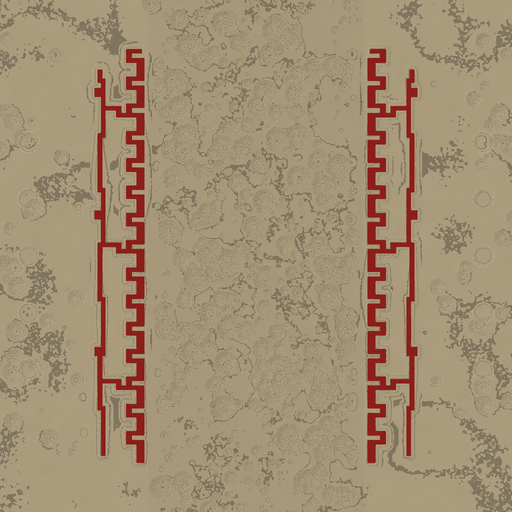
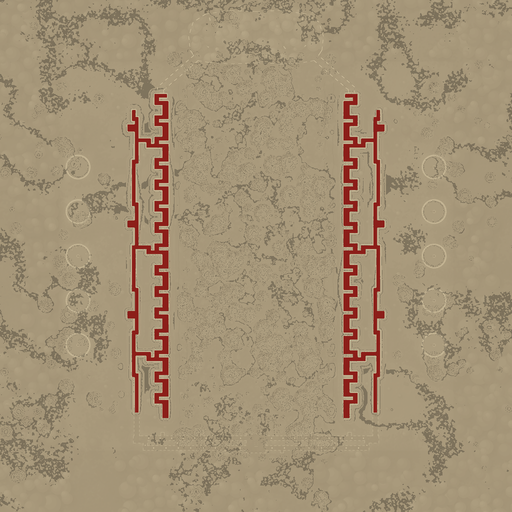
Spinning propellers, mortar map incl. the wood, vmap patcher, unpack bat applied-list fix
Claude-Session: https://claude.ai/code/session_01JB6b3g8A5T7X8w23QgXrnt

diff --git a/src/mg_trenchwarfare.js b/src/mg_trenchwarfare.js
@@ -35,7 +35,7 @@ const CONFIG = {
   INF_ARMOR: 50,
   HEAL_RADIUS: 120, HEAL_HP_PER_S: 12, HEAL_ARMOR_PER_S: 25,
   STATION_RADIUS: 72,
-  TARGET_EXT: 3600,                    // targeting map covers x, y in [-EXT, EXT]
+  TARGET_EXT: 4600,                    // targeting map covers x, y in [-EXT, EXT] (render_top.py EXT); includes the wood
   TARGET_STEPS: 192,
   SIGHT_SPEED: 60, SIGHT_FINE: 14,     // steps per second
   SHELL_RADIUS: 330, SHELL_DAMAGE: 170, TRENCH_COVER: 0.35,
@@ -111,7 +111,8 @@ function loadPoints() {
       return { ent: e, park, parkAng: e.GetAbsAngles(), pilot: -1, void: v3(park.x, park.y, -3600), ti: 0, si: 0,
                bombEnts: [1, 2].map(k => ent("tw_bomb_" + n + "_" + k)).filter(x => x),
                tracerEnts: [1, 2, 3, 4, 5, 6].map(k => ent("tw_tracer_" + n + "_" + k)).filter(x => x),
-               bsight: ent("tw_bombsight_" + n), gsight: ent("tw_gunsight_" + n) };
+               bsight: ent("tw_bombsight_" + n), gsight: ent("tw_gunsight_" + n), spin: 0,
+               prop: ent("tw_prop_" + n), hub: undefined };
     });
     points.pit[team] = []; points.seatA[team] = []; points.seatB[team] = [];
     for (let k = 1; k <= CONFIG.CREWS; k++) {
@@ -124,6 +125,12 @@ function loadPoints() {
     }
   }
   const n = (o) => o[T].length + "/" + o[CT].length;
+  for (const team of [T, CT]) for (const a of points.aircraft[team]) {
+    if (!a.prop) continue;
+    const w = a.prop.GetAbsOrigin(), y = a.parkAng.yaw * Math.PI / 180, dx = w.x - a.park.x, dy = w.y - a.park.y;
+    a.hub = v3(dx * Math.cos(y) + dy * Math.sin(y), -dx * Math.sin(y) + dy * Math.cos(y), w.z - a.park.z);
+    a.propParkAng = a.prop.GetAbsAngles();
+  }
   Instance.Msg("[tw] points: trench " + n(points.trench) + ", heal " + n(points.heal) + ", plane spawns " + n(points.plane) + ", aircraft " + n(points.aircraft));
 }
 
@@ -381,6 +388,12 @@ function drawSights(a, pawn) {
     else park(ac, ac.bsight);
   }
 }
+// Source AngleVectors: forward / left / up of an entity with these angles
+function angleBasis(ang) {
+  const p = ang.pitch * Math.PI / 180, y = ang.yaw * Math.PI / 180, r = ang.roll * Math.PI / 180;
+  const sp = Math.sin(p), cp = Math.cos(p), sy = Math.sin(y), cy = Math.cos(y), sr = Math.sin(r), cr = Math.cos(r);
+  return { f: v3(cp * cy, cp * sy, -sp), l: v3(sr * sp * cy - cr * sy, sr * sp * sy + cr * cy, sr * cp), u: v3(cr * sp * cy + sr * sy, cr * sp * sy - sr * cy, cr * cp) };
+}
 function dirOf(ang) {
   const p = ang.pitch * Math.PI / 180, y = ang.yaw * Math.PI / 180;
   return v3(Math.cos(p) * Math.cos(y), Math.cos(p) * Math.sin(y), -Math.sin(p));
@@ -433,6 +446,11 @@ function endFlight(p, pawn, crashed) {
     fire("tw_plane_eng_" + a.ac.ent.GetEntityName().slice("tw_plane_".length), "StopSound");
     fire("tw_plane_smoke_" + a.ac.ent.GetEntityName().slice("tw_plane_".length), "Stop");
     a.ac.ent.Teleport({ position: a.ac.park, angles: a.ac.parkAng, velocity: v3(0, 0, 0) });
+    if (a.ac.prop && a.ac.hub) {
+      const y = a.ac.parkAng.yaw * Math.PI / 180, h = a.ac.hub;
+      try { a.ac.prop.Teleport({ position: v3(a.ac.park.x + h.x * Math.cos(y) - h.y * Math.sin(y), a.ac.park.y + h.x * Math.sin(y) + h.y * Math.cos(y), a.ac.park.z + h.z),
+                                 angles: a.ac.propParkAng, velocity: v3(0, 0, 0) }); } catch (e) {}
+    }
   }
   a.ac.pilot = -1;
   park(a.ac, a.ac.gsight); park(a.ac, a.ac.bsight);
@@ -458,6 +476,15 @@ function placePlane(p, pawn, snap) {
   const vel = v3(f.x * a.speed, f.y * a.speed, f.z * a.speed);
   if (snap) a.ac.ent.Teleport({ position: a.pos, angles: ang, velocity: vel });
   else a.ac.ent.Move({ position: a.pos, angles: ang, velocity: vel });
+  const ac = a.ac;
+  if (ac.prop && ac.hub) {
+    ac.spin = (ac.spin + (snap ? 0 : (900 + 1500 * a.throttle) * Math.max(0.005, now() - (a.lastSpin || now())))) % 360;
+    a.lastSpin = now();
+    const Bq = angleBasis(ang), h = ac.hub;
+    const hp = v3(a.pos.x + Bq.f.x * h.x + Bq.l.x * h.y + Bq.u.x * h.z, a.pos.y + Bq.f.y * h.x + Bq.l.y * h.y + Bq.u.y * h.z, a.pos.z + Bq.f.z * h.x + Bq.l.z * h.y + Bq.u.z * h.z);
+    const pa = { pitch: ang.pitch, yaw: ang.yaw, roll: ang.roll + ac.spin };
+    try { if (snap) ac.prop.Teleport({ position: hp, angles: pa, velocity: vel }); else ac.prop.Move({ position: hp, angles: pa, velocity: vel }); } catch (e) {}
+  }
   const B = planeBasis(a);
   const hp = vadd(vadd(a.pos, f, -A.PILOT.back), B.u, A.PILOT.up);
   if (snap) pawn.Teleport({ position: hp, velocity: vel }); else pawn.Move({ position: hp, velocity: vel });

diff --git a/tools/make_map.py b/tools/make_map.py
@@ -770,6 +770,14 @@ for s in (-1, 1):
     prop('sign_mortars_gb' if s > 0 else 'sign_mortars_de', s * (LY.MORTAR_X - 260), -1200, gz(s * (LY.MORTAR_X - 260), -1200), 0 if s > 0 else 180)
 
 # ---------------------------------------------------------------- airfields (biplanes later): hangar, signs, spawn markers
+
+# propellers are separate models (tools/split_props.py) so the script can spin them; hub offsets from out/prop_hubs.json
+PROP_HUB = json.load(open(os.path.join(os.path.dirname(os.path.abspath(__file__)), '..', 'out', 'prop_hubs.json')))
+SK_ = np.random.RandomState(77)
+def hub_at(pl, x, y, z, yaw):
+    hx, hy, hz = PROP_HUB[pl]; c, s_ = math.cos(math.radians(yaw)), math.sin(math.radians(yaw))
+    return x + hx * c - hy * s_, y + hx * s_ + hy * c, z + hz
+
 for s in (-1, 1):
     hx = s * LY.HANGAR_X
     prop('hangar', hx, 0, gz(hx, 0) - 2, 0 if s > 0 else 180, reg=False)
@@ -779,7 +787,10 @@ for s in (-1, 1):
         prop(['crate_long', 'crate_german', 'crate_shells'][rng.randint(3)], x, y, gz(x, y), rng.uniform(0, 360), check=True, pad=3)
     pl = 'plane_spad7' if s > 0 else 'plane_dr1'
     for j, (px, py) in enumerate(((s * (LY.HANGAR_X + 40), -150), (s * (LY.HANGAR_X - 120), 160))):
-        prop(None, px, py, gz(px, py), (0 if s > 0 else 180) + rng.uniform(-6, 6), stock='models/tw/ext/%s/%s.vmdl' % (pl, pl))
+        yaw_ = (0 if s > 0 else 180) + rng.uniform(-6, 6)
+        prop(None, px, py, gz(px, py), yaw_, stock='models/tw/ext/%s/%s.vmdl' % (pl, pl))
+        hx, hy, hz = hub_at(pl, px, py, gz(px, py), yaw_)
+        prop(None, hx, hy, hz, yaw_, roll=SK_.uniform(0, 180), stock='models/tw/ext/%s/%s_prop.vmdl' % (pl, pl), solid='0', reg=False)
     for j in range(5):
         x, y = s * (LY.HANGAR_X + rng.uniform(-340, 340)), rng.uniform(-280, 280)
         prop(None, x, y, gz(x, y), rng.uniform(0, 360), stock='models/tw/ext/petrol_can/petrol_can.vmdl', check=True, pad=3)
@@ -809,6 +820,11 @@ for s in (-1, 1):
                 fademindist='-1', fademaxdist='0', StartDisabled='0', HoldAnimation='0', RandomAnimation='0')
         props_placed['models/tw/ext/%s/%s.vmdl' % (pl, dyn)] = 1
         tg = '%s_%d' % ('ct' if s > 0 else 't', i + 1)
+        hx, hy, hz = hub_at(pl, px - s * 60, py, gz(px - s * 60, py), 180 if s > 0 else 0)
+        ent('prop_dynamic', (hx, hy, hz), (0, 180 if s > 0 else 0, SK_.uniform(0, 180)), group=GROUP, targetname='tw_prop_' + tg,
+            model='models/tw/ext/%s/%s_prop.vmdl' % (pl, pl), solid='0', rendercolor='255 255 255', skin='default', DefaultAnim='', disableshadows='0',
+            fademindist='-1', fademaxdist='0', StartDisabled='0', HoldAnimation='0', RandomAnimation='0')
+        props_placed['models/tw/ext/%s/%s_prop.vmdl' % (pl, pl)] = 1
         ent('info_particle_system', (px - s * 60, py, gz(px - s * 60, py) + 60), group=GROUP, targetname='tw_plane_smoke_' + tg, parentname='tw_plane_' + tg,
             effect_name='particles/burning_fx/barrel_burning_engine_smoke_dark.vpcf', start_active='0')
         for kind, snd in (('eng', 'tw.plane_engine'), ('gun', 'tw.plane_gun'), ('gun2', 'tw.plane_gun'), ('gun3', 'tw.plane_gun')):
@@ -1021,8 +1037,7 @@ hint((-1280, -3600, -121, 1280, -3150, 460), 8)
 hint((-1280, 2900, -160, 1280, 4500, 420), 3)                 # woods skirmish clearing
 hint((-LW / 2 - 64, -LD / 2 - 64, LZ - 64, LW / 2 + 64, LD / 2 + 64, LZ + LH + 64), 3)
 hint((-SX - 64, -SY - 64, LZ - 128, SX + 64, SY + 64, LY.SKY_Z1 + 64), 9)
-ent('cs_minimap_boundary', (-6800, 6800, 0), group=GROUP)            # = the radar image's corners (make_radar HALF); must agree with the overview txt
-ent('cs_minimap_boundary', (6800, -6800, 0), group=GROUP)
+# no cs_minimap_boundary: with it CS2 renders its own top-down minimap (it showed the lobby) instead of the overview txt + radar png
 
 # ---------------------------------------------------------------- banner and material files
 def banner_png():

diff --git a/tools/patch_vmap.py b/tools/patch_vmap.py
@@ -1,0 +1,65 @@
+"""Small changes applied straight onto the user's latest vmap (no regeneration, so nothing the generator places randomly moves):
+- removes cs_minimap_boundary (CS2 drew its own top-down minimap from them instead of the radar)
+- adds the separate propeller models (tools/split_props.py): tw_prop_<tg> prop_dynamic per flyable plane, a static one per hangar plane
+Usage: patch_vmap.py <user vmap> <out vmap> <addon>"""
+import os, sys, json, math
+import numpy as np
+import dmx, vmaplib
+from vmaplib import ent
+
+SRC, OUTPATH, OUT = sys.argv[1], sys.argv[2], sys.argv[3]
+GROUP = 'tw_gen'
+d = dmx.DMX.load(SRC); root = d.root; world = root.get('world')
+vmaplib.init(d, OUT)
+HUB = json.load(open(os.path.join(os.path.dirname(os.path.abspath(__file__)), '..', 'out', 'prop_hubs.json')))
+rng = np.random.RandomState(77)
+kids = [a for a in world.attrs if a[0] == 'children'][0]
+kept, have, planes, statics = [], set(), [], []
+for c in kids[2]:
+    if c.type == 'CMapEntity':
+        ep = c.get('entity_properties'); cls = ep.get('classname'); m = ep.get('model') or ''
+        if cls == 'cs_minimap_boundary': continue
+        nm = ep.get('targetname') or ''
+        if nm.startswith('tw_prop_') or m.endswith('_prop.vmdl'): have.add(nm or tuple(round(v) for v in c.get('origin')))
+        if cls == 'prop_dynamic' and nm.startswith('tw_plane_') and not nm.startswith('tw_plane_smoke'):
+            planes.append((nm[len('tw_plane_'):], m.split('/')[-2], c.get('origin'), c.get('angles')))
+        if cls == 'prop_static' and m.endswith(('plane_dr1.vmdl', 'plane_spad7.vmdl')):
+            statics.append((m.split('/')[-2], c.get('origin'), c.get('angles')))
+    kept.append(c)
+
+
+def hub_at(pl, o, yaw):
+    hx, hy, hz = HUB[pl]; c, s = math.cos(math.radians(yaw)), math.sin(math.radians(yaw))
+    return (o[0] + hx * c - hy * s, o[1] + hx * s + hy * c, o[2] + hz)
+
+
+refs = set()
+for tg, pl, o, an in planes:
+    if 'tw_prop_' + tg in have: continue
+    mdl = 'models/tw/ext/%s/%s_prop.vmdl' % (pl, pl); refs.add(mdl)
+    ent('prop_dynamic', hub_at(pl, o, an[1]), (0, an[1], rng.uniform(0, 180)), group=GROUP, targetname='tw_prop_' + tg, model=mdl, solid='0',
+        rendercolor='255 255 255', skin='default', DefaultAnim='', disableshadows='0', fademindist='-1', fademaxdist='0', StartDisabled='0',
+        HoldAnimation='0', RandomAnimation='0')
+for pl, o, an in statics:
+    h = hub_at(pl, o, an[1])
+    if tuple(round(v) for v in h) in have: continue
+    mdl = 'models/tw/ext/%s/%s_prop.vmdl' % (pl, pl); refs.add(mdl)
+    ent('prop_static', h, (0, an[1], rng.uniform(0, 180)), group=GROUP, model=mdl, rendercolor='255 255 255', skin='default', solid='0',
+        bakelighting='0', disableshadows='0', lodlevel='-1', baketoworld='0', rendertocubemaps='1')
+kids[2] = kept + vmaplib.new_children
+counts = {}
+for c in kids[2]:
+    if c.type == 'CMapEntity':
+        cls = c.get('entity_properties').get('classname'); counts[cls] = counts.get(cls, 0) + 1
+pre = {a[0]: a for a in d.prefix[0]}
+ar = pre['map_asset_references'][2]
+for m in sorted(refs):
+    if m not in ar: ar.append(m)
+names = sorted(counts)
+if 'map_subasset_reference_types' in pre:
+    pre['map_subasset_reference_types'][2] = ['entity'] * len(names)
+    pre['map_subasset_reference_names'][2] = names
+    pre['map_subasset_reference_counts'][2] = [counts[n] for n in names]
+d.elements = [root]
+d.save(OUTPATH)
+print('patched: %d planes, %d hangar planes got propellers; removed minimap boundaries; %d new entities' % (len(planes), len(statics), len(vmaplib.new_children)))

diff --git a/tools/split_props.py b/tools/split_props.py
@@ -1,0 +1,53 @@
+"""Splits each aircraft's propeller out of the weathered plane SMD into its own prop_dynamic model (origin on the hub, axis +x)
+so the script can spin it. Idempotent: works from out/ext_full/<plane>.smd (the unsplit SMD, saved on the first run).
+Usage: split_props.py <addon>; writes models/tw/ext/<plane>/<plane>_prop.{smd,vmdl} and props.json (hub offsets)."""
+import os, sys, json, shutil
+import numpy as np
+from scipy.sparse import coo_matrix
+from scipy.sparse.csgraph import connected_components
+import modelio
+
+OUT = sys.argv[1]
+FULL = os.path.join(os.path.dirname(os.path.abspath(__file__)), '..', 'out', 'ext_full')
+FRONT = {'plane_dr1': 120.0, 'plane_spad7': 114.5}      # components entirely forward of this x are the propeller + hub
+os.makedirs(FULL, exist_ok=True)
+hubs = {}
+for name, xf in FRONT.items():
+    d = os.path.join(OUT, 'models/tw/ext', name)
+    src = os.path.join(FULL, name + '.smd')
+    if not os.path.exists(src): shutil.copy(os.path.join(d, name + '.smd'), src)
+    L = open(src).read().split('\n'); i = L.index('triangles')
+    head, tris = L[:i + 1], []
+    k = i + 1
+    while L[k] != 'end':
+        tris.append(L[k:k + 4]); k += 4
+    S = np.array([[[float(v) for v in r.split()[1:4]] for r in t[1:]] for t in tris])          # smd coords
+    P = np.stack([-S[..., 1], S[..., 0], S[..., 2]], -1)                                        # hammer coords (nose +x)
+    key = np.round(P.reshape(-1, 3) / 0.05).astype(np.int64); _, vid = np.unique(key, axis=0, return_inverse=True); vid = vid.reshape(-1, 3)
+    n = vid.max() + 1; r = np.concatenate([vid[:, 0], vid[:, 1], vid[:, 2]]); c = np.concatenate([vid[:, 1], vid[:, 2], vid[:, 0]])
+    _, lab = connected_components(coo_matrix((np.ones(len(r)), (r, c)), shape=(n, n)), directed=False)
+    tl = lab[vid[:, 0]]
+    prop = np.zeros(len(tris), bool)
+    for cid in np.unique(tl):
+        sel = tl == cid
+        if P[sel][..., 0].min() >= xf: prop |= sel
+    Q = P[prop].reshape(-1, 3)
+    hub = np.array([Q[:, 0].mean(), (Q[:, 1].min() + Q[:, 1].max()) / 2, (Q[:, 2].min() + Q[:, 2].max()) / 2])
+    hubs[name] = hub.round(3).tolist()
+    tail = ['end', '']
+    open(os.path.join(d, name + '.smd'), 'w', newline='\n').write('\n'.join(head + [l for t, p in zip(tris, prop) if not p for l in t] + tail))
+    sh = np.array([hub[1], -hub[0], hub[2]])                                                     # hub in smd coords
+    out = []
+    for t, p, s in zip(tris, prop, S):
+        if not p: continue
+        out.append(t[0])
+        for row, sv in zip(t[1:], s):
+            q = row.split(); q[1:4] = ['%.4f' % v for v in sv - sh]; out.append(' '.join(q))
+    pn = name + '_prop'
+    open(os.path.join(d, pn + '.smd'), 'w', newline='\n').write('\n'.join(head + out + tail))
+    tname = name + '_skin'
+    open(os.path.join(d, pn + '.vmdl'), 'w', newline='\n').write(
+        modelio.vmdl_text(pn, 'models/tw/ext/%s' % name, [pn], [(tname + '.vmat', 'materials/models/tw/ext/%s/%s.vmat' % (name, tname))], [],
+                          archetype='', entity='prop_dynamic'))
+    print('%s: propeller %d tris (hub %s), body %d tris' % (name, prop.sum(), hubs[name], (~prop).sum()))
+json.dump(hubs, open(os.path.join(os.path.dirname(os.path.abspath(__file__)), '..', 'out', 'prop_hubs.json'), 'w'), indent=1)

diff --git a/tools/render_top.py b/tools/render_top.py
@@ -8,7 +8,8 @@ from noise import fbm
 
 OUT = sys.argv[1] if len(sys.argv) > 1 else '../out/addon'
 GAME = sys.argv[2] if len(sys.argv) > 2 else '../out/game'
-EXT = 3600.0                     # targetable square: x, y in [-EXT, EXT]
+EXT = 4600.0                     # targetable square: x, y in [-EXT, EXT] (must match CONFIG.TARGET_EXT); covers the wood
+RADAR_HALF = 6800.0              # make_radar.py's square
 N = 1024
 xs = np.linspace(-EXT, EXT, N); ys = np.linspace(EXT, -EXT, N)      # image rows go from +y down
 X, Y = np.meshgrid(xs, ys)
@@ -51,6 +52,13 @@ for s in (-1, 1):
 base_img = im
 os.makedirs(os.path.join(OUT, 'panorama/images/custom_game/tw'), exist_ok=True)
 base_img.save(os.path.join(os.path.dirname(__file__), '..', 'preview', 'topdown.png'))
+
+# the mortar sight shows the painted radar (forest, wood clearing, tunnels...) cropped to the targetable square
+_rc = os.path.join(os.path.dirname(os.path.abspath(__file__)), '..', 'out', 'radar_clean.png')
+if os.path.exists(_rc):
+    R_ = Image.open(_rc); S_ = R_.size[0]
+    lo = (RADAR_HALF - EXT) / (2 * RADAR_HALF) * S_; hi = (RADAR_HALF + EXT) / (2 * RADAR_HALF) * S_
+    base_img = R_.crop((int(lo), int(lo), int(hi), int(hi))).resize((N, N), Image.LANCZOS)
 
 def digital(img, team):
     """bird's-eye 'digital' look: luminance, edge boost, green phosphor, grid, scanlines; enemy at the top"""

diff --git a/tools/make_radar.py b/tools/make_radar.py
@@ -325,6 +325,7 @@ for (x0, y0, x1, y1, k) in TR:
             y = (y0 + y1) / 2 if x1 - x0 > y1 - y0 else y0 + (y1 - y0) * f
             q = px(x, y); r = plen(9); dr.ellipse([q[0] - r, q[1] - r, q[0] + r, q[1] + r], fill=(255, 196, 110, 210))
 
+out.convert('RGB').save(os.path.join(os.path.dirname(os.path.abspath(__file__)), '..', 'out', 'radar_clean.png'))     # unlabelled, for the mortar sight (render_top.py)
 # ---------------------------------------------------------------- lettering, compass, frame
 def label(text, x, y, size, col=(232, 220, 186), alpha=200, rot=0, spacing=0.18, font='/usr/share/fonts/truetype/dejavu/DejaVuSerif-Bold.ttf'):
     f = ImageFont.truetype(font, int(size * SS))

diff --git a/NOTES.md b/NOTES.md
@@ -176,6 +176,17 @@ Done this session (since the first delivery):
   "PULL UP" warning below 320 u. Mortars: the loader (c.loader, set when loading) deals a non-lethal share first (>= 55 where the victim
   has the health) so CS2 counts an assist; the firer deals the rest and gets the kill.
 
+- tw19: cs_minimap_boundary removed (CS2 drew its own top-down minimap of the lobby from them instead of the radar png).
+- tw20 (from the user's 16:58 vmap): full regeneration reshuffled ~450 generated objects (user edits now act as placer obstacles ->
+  rng cascade), so this delivery is `tools/patch_vmap.py` applied straight onto the user's vmap: removes minimap boundaries, adds the
+  propellers. Propellers: `tools/split_props.py <addon>` splits them out of the weathered plane SMDs (pristine copies in out/ext_full;
+  re-run after weather_ext.py) into plane_X_prop models (origin on the hub, out/prop_hubs.json); tw_prop_<tg> prop_dynamics spun by the
+  script (roll += 900-2400 deg/s with throttle, Source AngleVectors basis for the hub offset), static ones on the hangar planes.
+  Mortar sight map: render_top.py now crops make_radar's unlabelled render (out/radar_clean.png), EXT 4600 (= CONFIG.TARGET_EXT)
+  so the wood is on it. Unpack bat fixed: applied-list lines had a trailing space so findstr /x never matched and every zip from
+  tw7 on was re-extracted on every run; now /b match, (echo x)>>file, loop tw2..tw99.
+  TODO generator: per-section rng so user obstacles don't cascade; until then prefer patch_vmap.py-style deltas on the user's map.
+
 ## Next
 - Wait for the user's in-game feedback (flight angles/roll sign, skybox, vertex paint, stock materials on props).
 - Done 03:12: shelter candles + baked warm light, wreck/crater smoke, distant smoke columns, damaged-plane smoke (HP <= 45).
